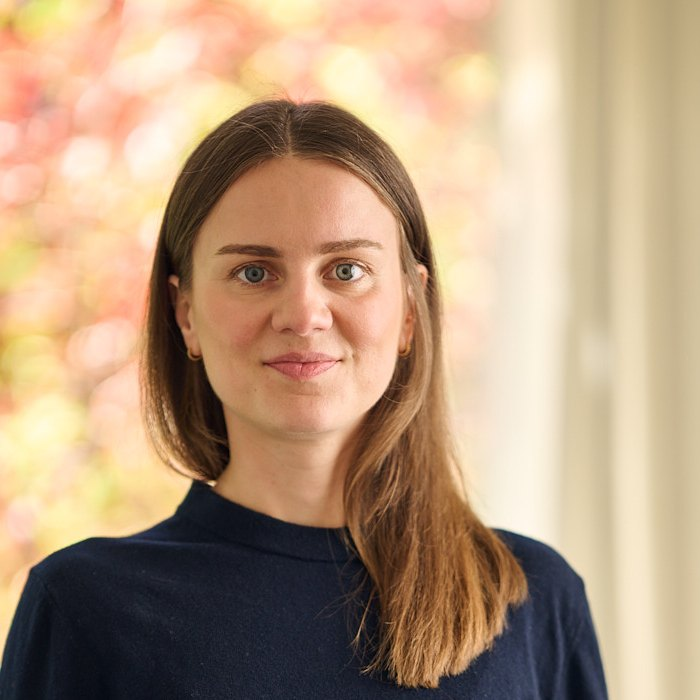
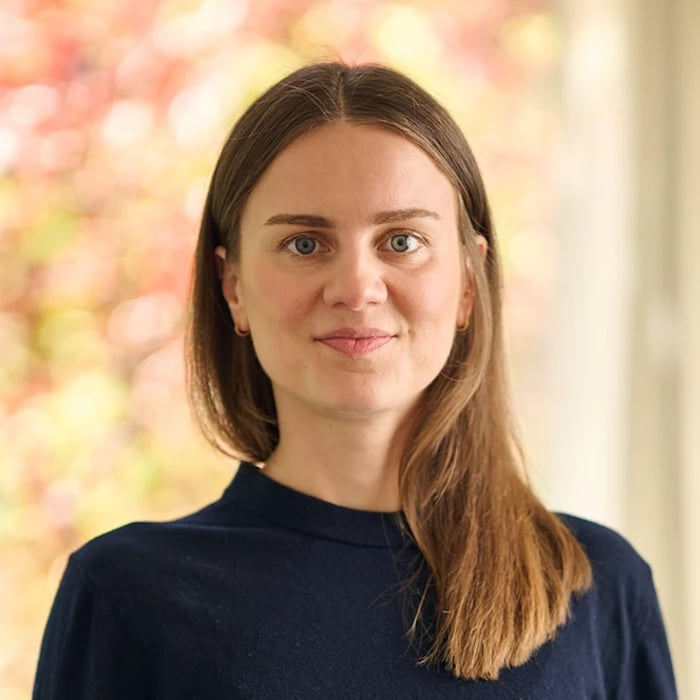
Ketamin-Seite: neues Porträt von Stella Savelsberg
- public/bilder/savelsberg.jpg durch das neue Foto ersetzt (quadratisch, 700 px)
- Hinweis zum Vorschaubild mit Wasserzeichen in ketamin.ts und README aktualisiert

Claude-Session: https://claude.ai/code/session_015sbwke4HCaYzaXonePs6kN

diff --git a/content/ketamin.ts b/content/ketamin.ts
@@ -97,7 +97,7 @@ export const ketamin = {
     beruf: "Psychologische Psychotherapeutin" as string | null,
     /** Kurzvorstellung, von Frau Savelsberg geliefert. */
     text: "Vorbereitung im Gespräch, Begleitung rund um die ärztliche Behandlung und Integration, damit das Erlebte in Ihre laufende Psychotherapie einfließen kann." as string | null,
-    /** Vorschaubild des Fotografen, zugeschnitten. Vor dem Livegang durch die lizenzierte Datei ersetzen. */
+    /** Porträt Stella Savelsberg (Oktober 2026), quadratisch zugeschnitten. */
     foto: { src: "/bilder/savelsberg.jpg", width: 700, height: 700 },
     website: "https://www.psychotherapie-stella-savelsberg.de/ketamin-gestuetzte-psychotherapie",
   },

diff --git a/README.md b/README.md
@@ -73,7 +73,7 @@ Solange keine Telefonnummer eingetragen ist, zeigt die mobile Buchungsleiste nur
 - [ ] Ketamintherapie: Hinweise zu Essen und Trinken vor der Infusion (`app/ketamintherapie/page.tsx`)
 - [x] Psychotherapeutin: Name (Stella Savelsberg), Berufsbezeichnung, Link zu ihrer Website (`content/ketamin.ts`)
 - [x] Psychotherapeutin: Kurzvorstellung (`content/ketamin.ts`, Feld `text`)
-- [ ] **Foto Stella Savelsberg:** Eingebaut ist ein zugeschnittenes Vorschaubild des Fotografen (Original trägt das Wasserzeichen "NUR ZUR AUSWAHL"). Vor dem Livegang durch die lizenzierte Datei ersetzen und das Nutzungsrecht für die Website klären (`public/bilder/savelsberg.jpg`)
+- [x] **Foto Stella Savelsberg:** neues Porträt ohne Wasserzeichen eingebaut (`public/bilder/savelsberg.jpg`). Nutzungsrecht für die Website bitte bestätigen lassen
 - [x] Hinweise "Textvorschlag zur fachlichen Freigabe" entfernt (Oktober 2026). Die Fachtexte gelten damit als von Dr. Brandl freigegeben; Änderungen kommen in der letzten Korrekturschleife
 - [ ] Ketamin-Texte und Preisliste (u. a. Markenname "Medivitan") rechtlich nach Heilmittelwerbegesetz prüfen lassen
 - [x] Hinweis zu Zahlungsarten auf der Kostenseite (`app/kosten/page.tsx`)
